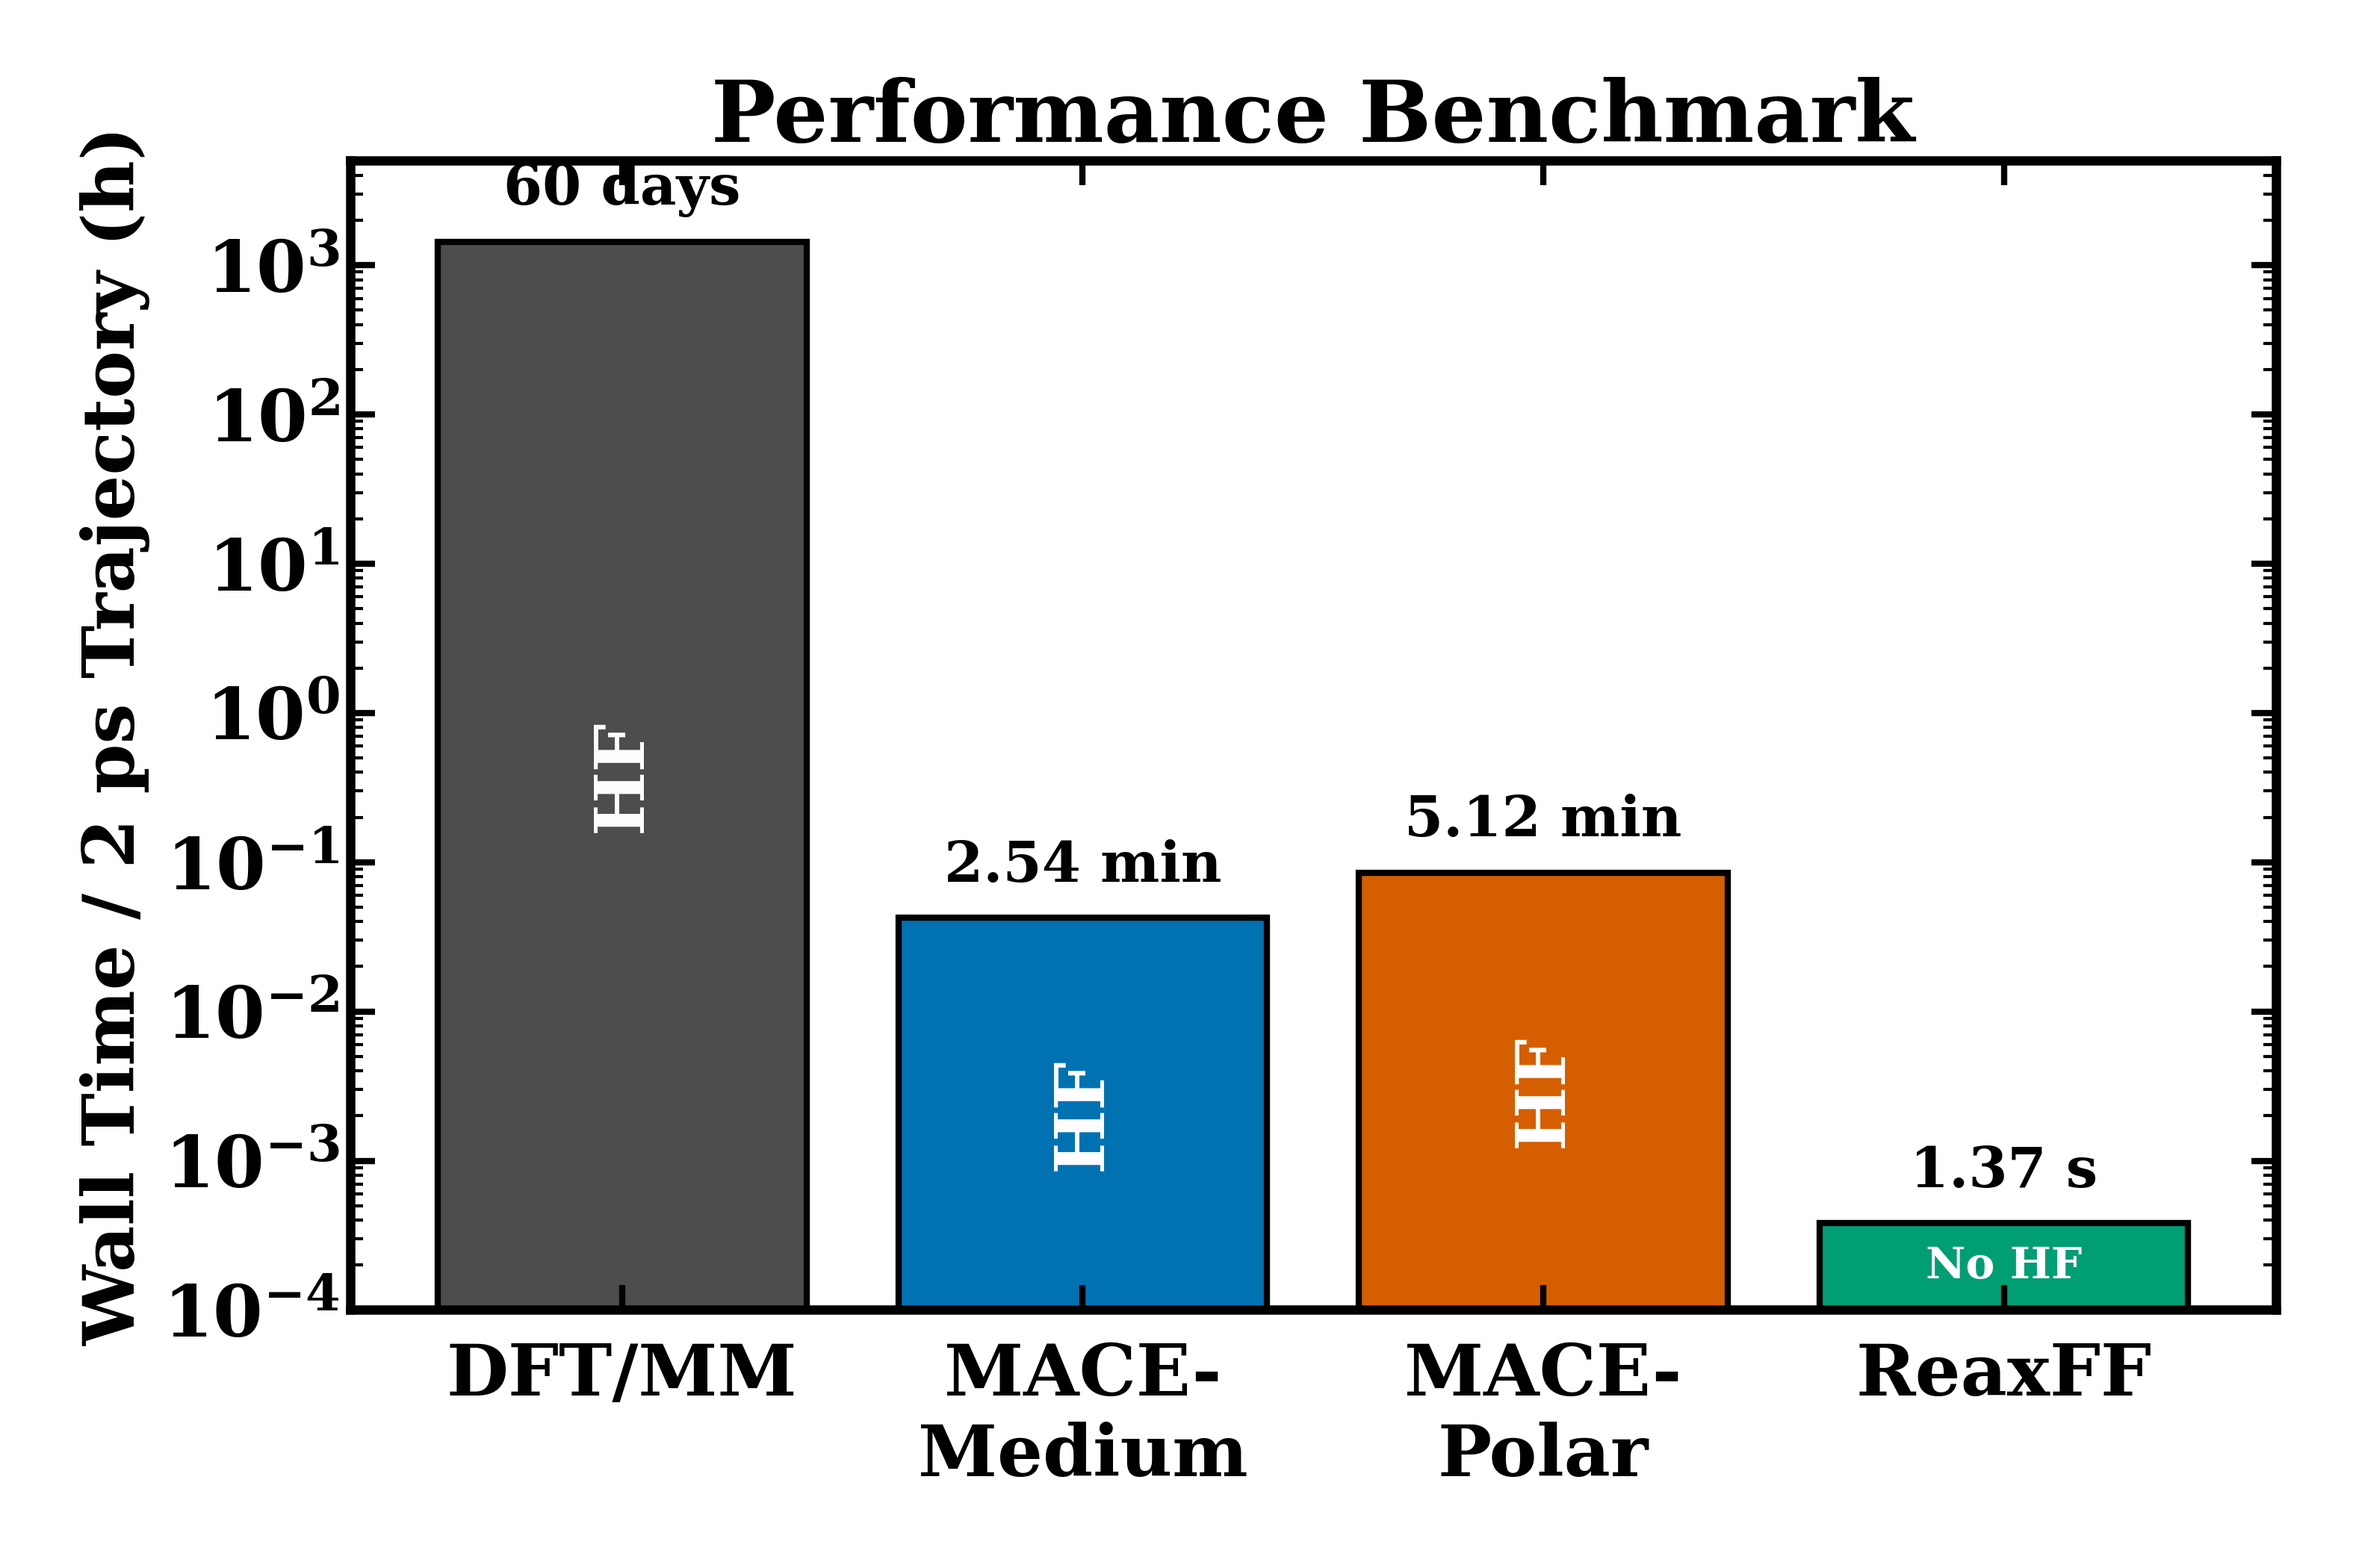
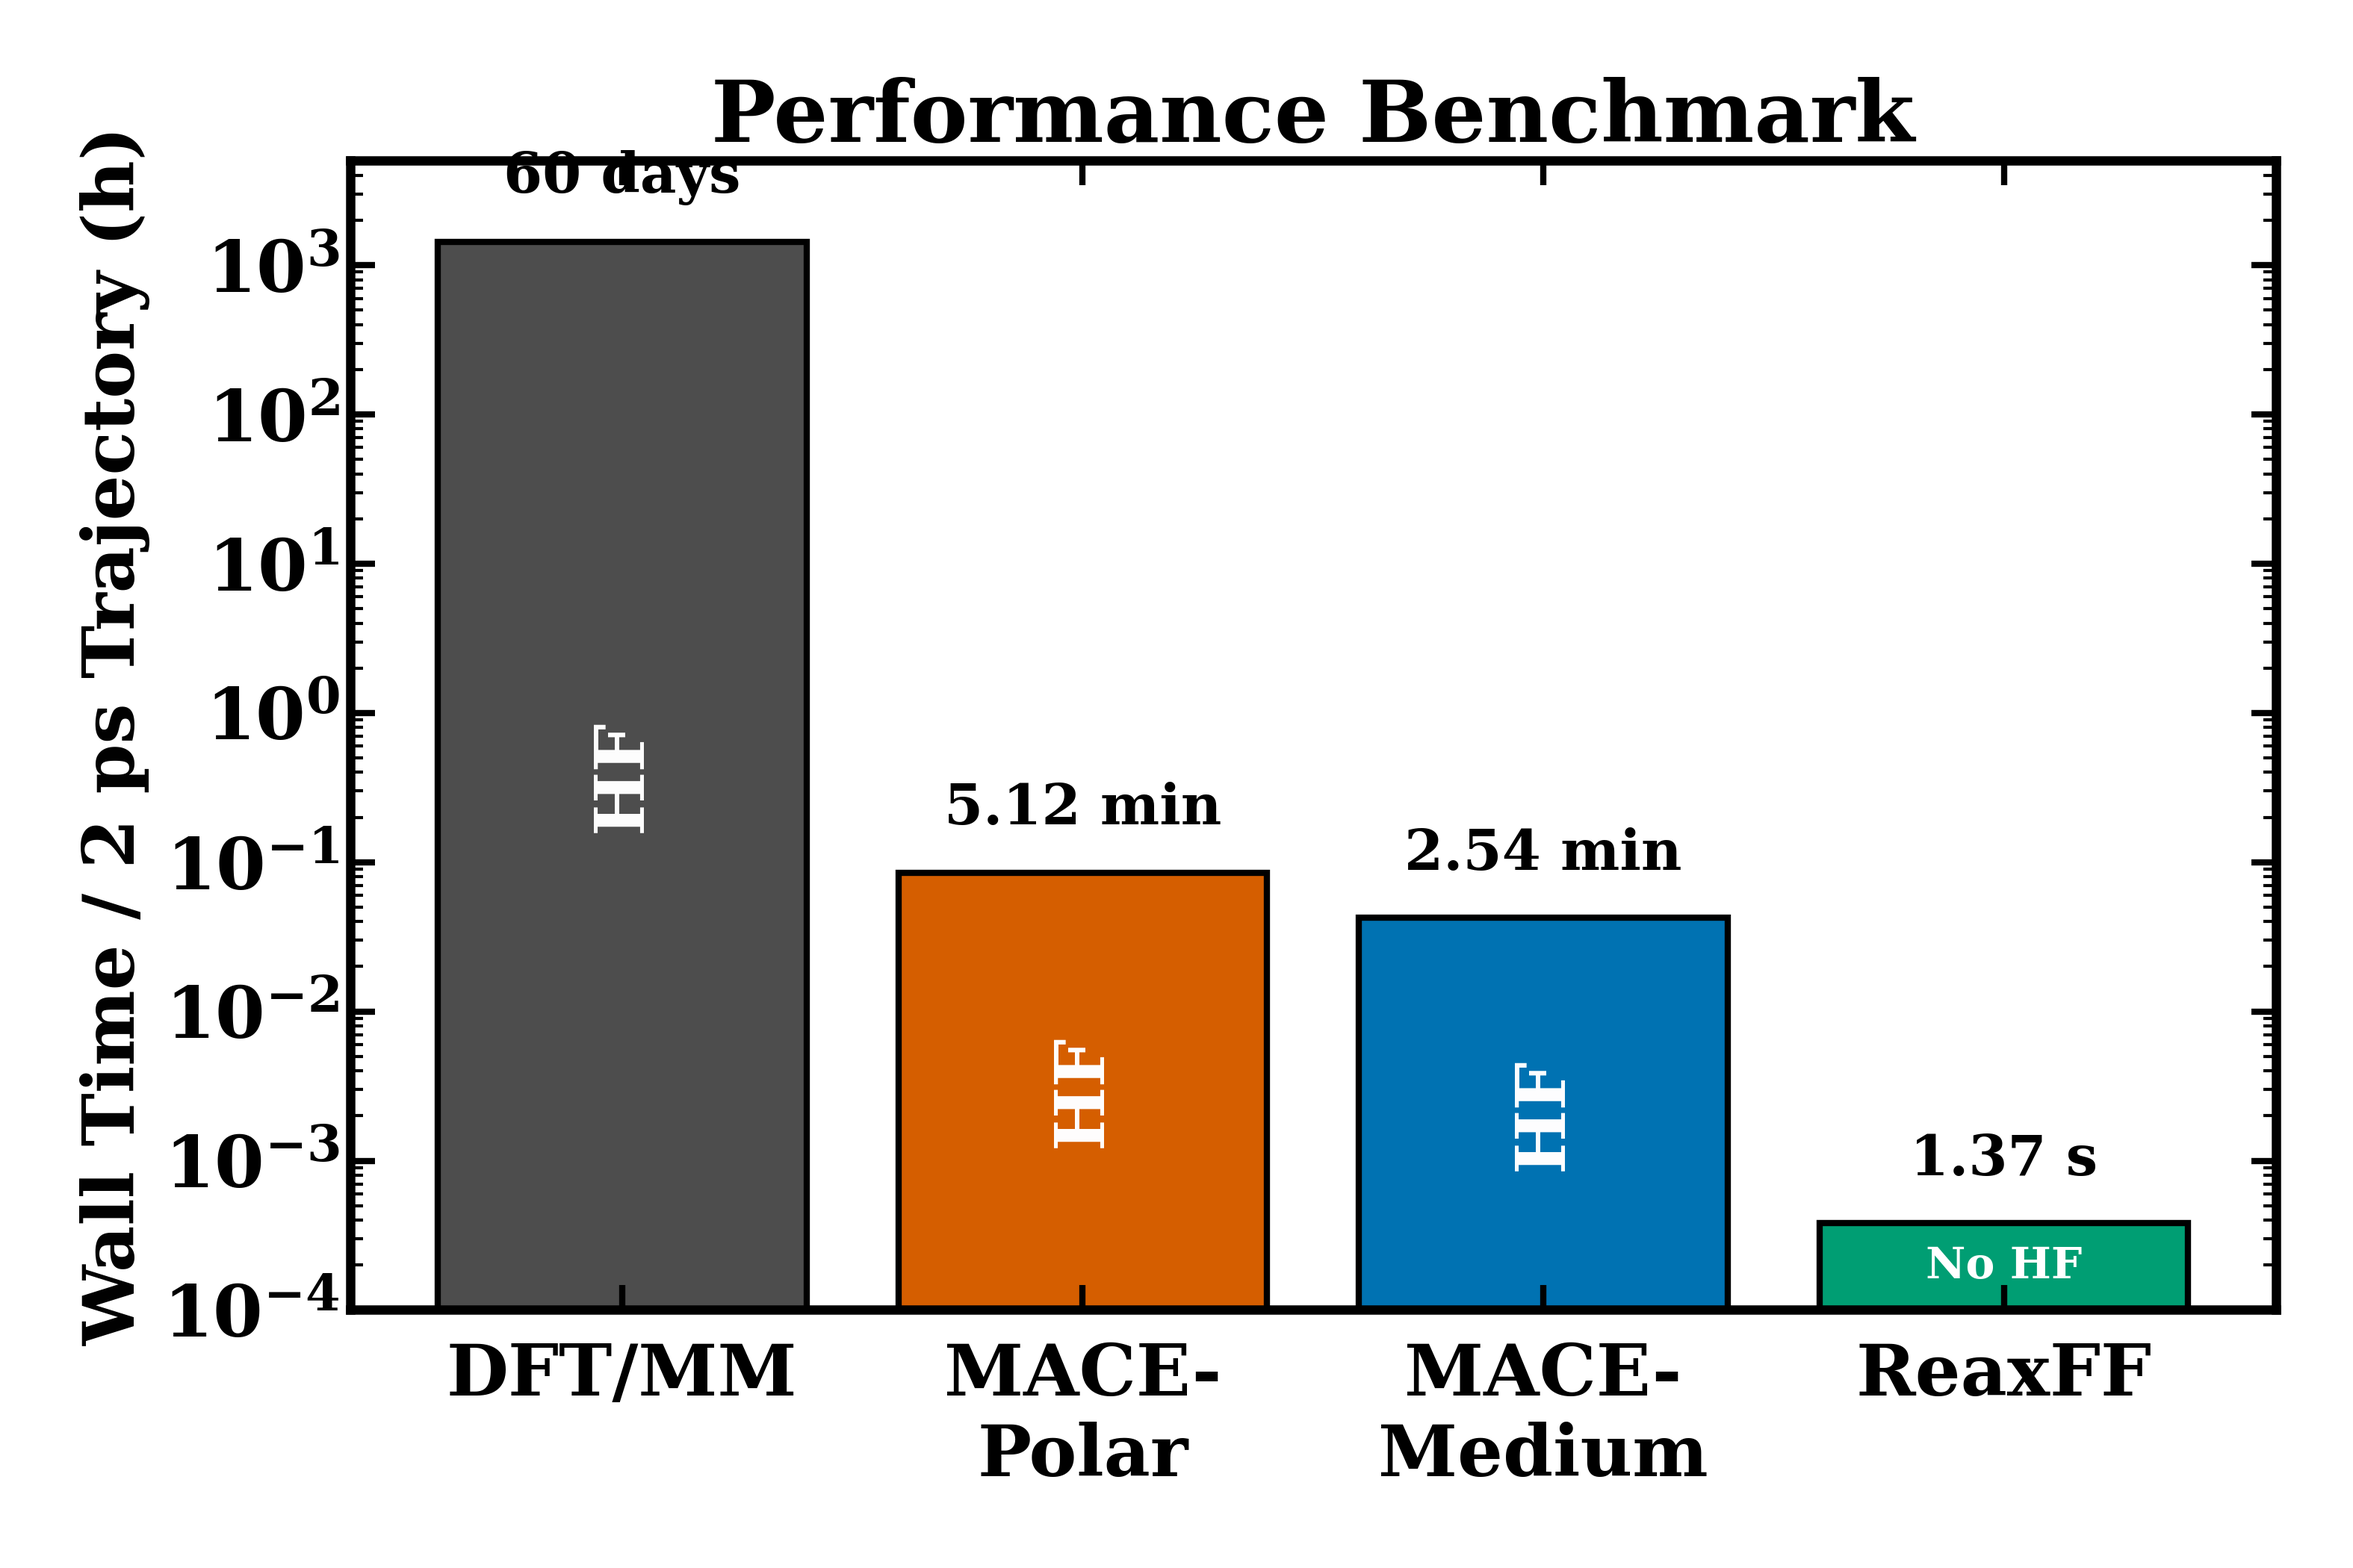
Add no-label performance benchmark variant

diff --git a/scripts/plotting/build_performance_benchmark.py b/scripts/plotting/build_performance_benchmark.py
@@ -12,6 +12,7 @@ import pandas as pd
 ROOT = Path(__file__).resolve().parents[2]
 DATA = ROOT / "data" / "benchmarks" / "resource_benchmark.csv"
 OUT = ROOT / "assets" / "performance_benchmark"
+OUT_NO_HF_LABELS = ROOT / "assets" / "performance_benchmark_no_hf_labels"
 Y_FLOOR = 1e-4
 
 
@@ -59,12 +60,11 @@ def format_time(hours: float) -> str:
     return f"{hours * 3600:.2f} s"
 
 
-def main() -> None:
-    configure_style()
+def build_plot(out_stem: Path, show_chemistry_labels: bool, y_upper: float) -> None:
     data = pd.read_csv(DATA)
-    order = ["DFT/QM-MM", "MACE-medium", "MACE-POLAR-1", "ReaxFF"]
-    labels = ["DFT/MM", "MACE-\nMedium", "MACE-\nPolar", "ReaxFF"]
-    colors = ["#4D4D4D", "#0072B2", "#D55E00", "#009E73"]
+    order = ["DFT/QM-MM", "MACE-POLAR-1", "MACE-medium", "ReaxFF"]
+    labels = ["DFT/MM", "MACE-\nPolar", "MACE-\nMedium", "ReaxFF"]
+    colors = ["#4D4D4D", "#D55E00", "#0072B2", "#009E73"]
     chemistry = ["HF", "HF", "HF", "No HF"]
     data = data.set_index("method").loc[order].reset_index()
     hours = data["wall_time_hours_per_2ps_trajectory"].astype(float).to_numpy()
@@ -72,30 +72,31 @@ def main() -> None:
     fig, ax = plt.subplots(figsize=(10.5, 7.0))
     bars = ax.bar(labels, hours, color=colors, edgecolor="black", linewidth=2.0)
     ax.set_yscale("log")
-    ax.set_ylim(Y_FLOOR, 5e3)
+    ax.set_ylim(Y_FLOOR, y_upper)
     ax.set_ylabel("Wall Time / 2 ps Trajectory (h)")
     ax.set_title("Performance Benchmark")
     ax.grid(False)
     ax.tick_params(axis="x", pad=10)
 
     for bar, value, label in zip(bars, hours, chemistry):
-        y_text = 10 ** ((math.log10(max(value, Y_FLOOR)) + math.log10(Y_FLOOR)) / 2)
-        is_reaxff = label == "No HF"
+        if show_chemistry_labels:
+            y_text = 10 ** ((math.log10(max(value, Y_FLOOR)) + math.log10(Y_FLOOR)) / 2)
+            is_reaxff = label == "No HF"
+            ax.text(
+                bar.get_x() + bar.get_width() / 2,
+                y_text,
+                label,
+                ha="center",
+                va="center",
+                rotation=0 if is_reaxff else 90,
+                fontsize=14 if is_reaxff else 22,
+                fontweight="bold",
+                color="white",
+                clip_on=True,
+            )
         ax.text(
             bar.get_x() + bar.get_width() / 2,
-            y_text,
-            label,
-            ha="center",
-            va="center",
-            rotation=0 if is_reaxff else 90,
-            fontsize=14 if is_reaxff else 22,
-            fontweight="bold",
-            color="white",
-            clip_on=True,
-        )
-        ax.text(
-            bar.get_x() + bar.get_width() / 2,
-            value * 1.45,
+            value * 1.75,
             format_time(value),
             ha="center",
             va="bottom",
@@ -104,9 +105,16 @@ def main() -> None:
         )
 
     fig.tight_layout()
-    OUT.parent.mkdir(parents=True, exist_ok=True)
-    fig.savefig(OUT.with_suffix(".png"), dpi=300)
-    fig.savefig(OUT.with_suffix(".pdf"))
+    out_stem.parent.mkdir(parents=True, exist_ok=True)
+    fig.savefig(out_stem.with_suffix(".png"), dpi=300)
+    fig.savefig(out_stem.with_suffix(".pdf"))
+    plt.close(fig)
+
+
+def main() -> None:
+    configure_style()
+    build_plot(OUT, show_chemistry_labels=True, y_upper=5e3)
+    build_plot(OUT_NO_HF_LABELS, show_chemistry_labels=False, y_upper=2e4)
 
 
 if __name__ == "__main__":
